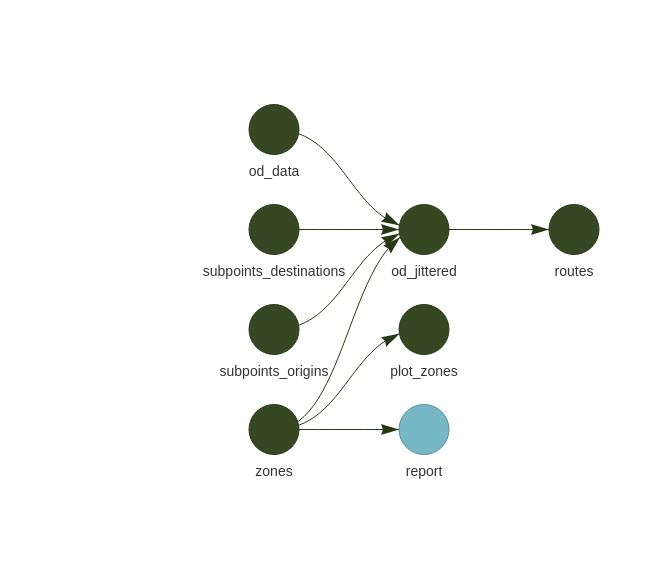
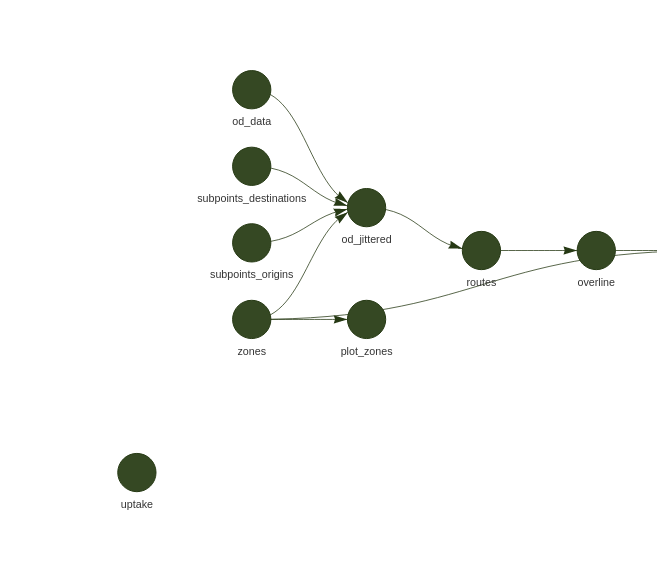
Add overline

diff --git a/README.md b/README.md
@@ -32,3 +32,12 @@ targets::tar_visnetwork(targets_only = TRUE)
 The zones in the case study region are as follows:
 
 ![](README_files/figure-gfm/zones-1.png)<!-- -->
+
+Baseline cycling levels are shown below:
+
+``` r
+tm_shape(overline) +
+  tm_lines(lwd = "bicycle", scale = 9)
+```
+
+![](README_files/figure-gfm/overline-1.png)<!-- -->
